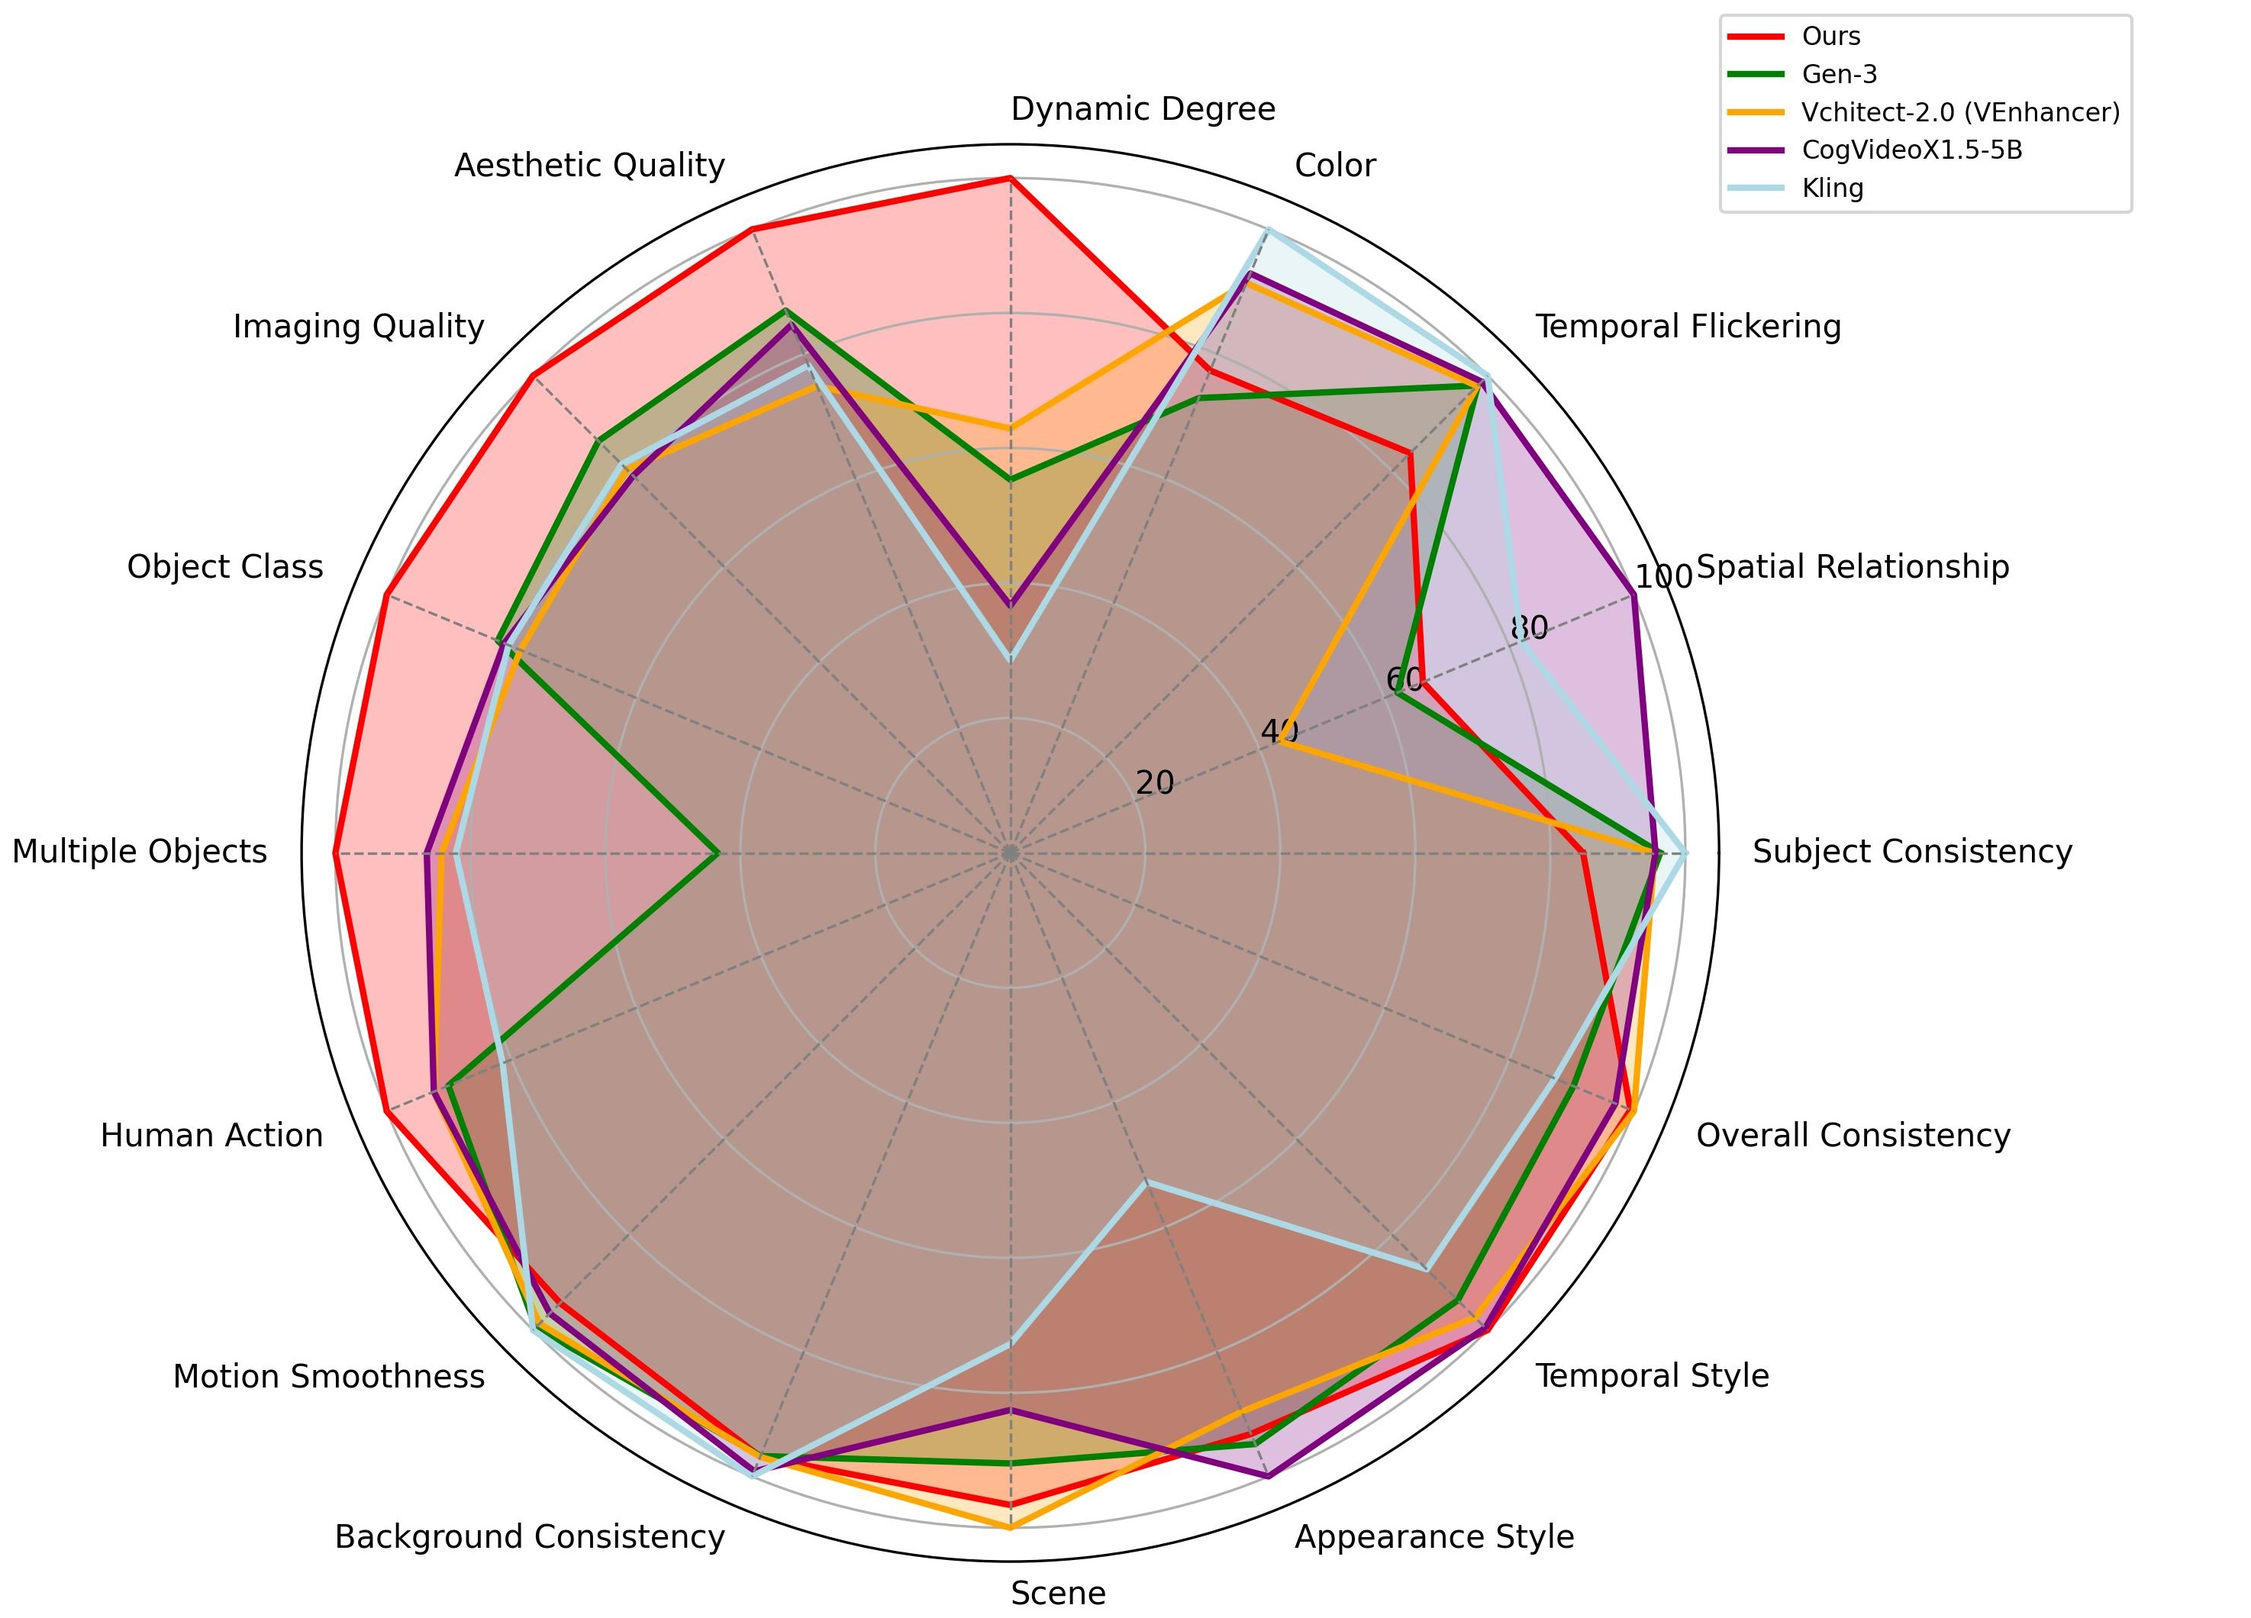
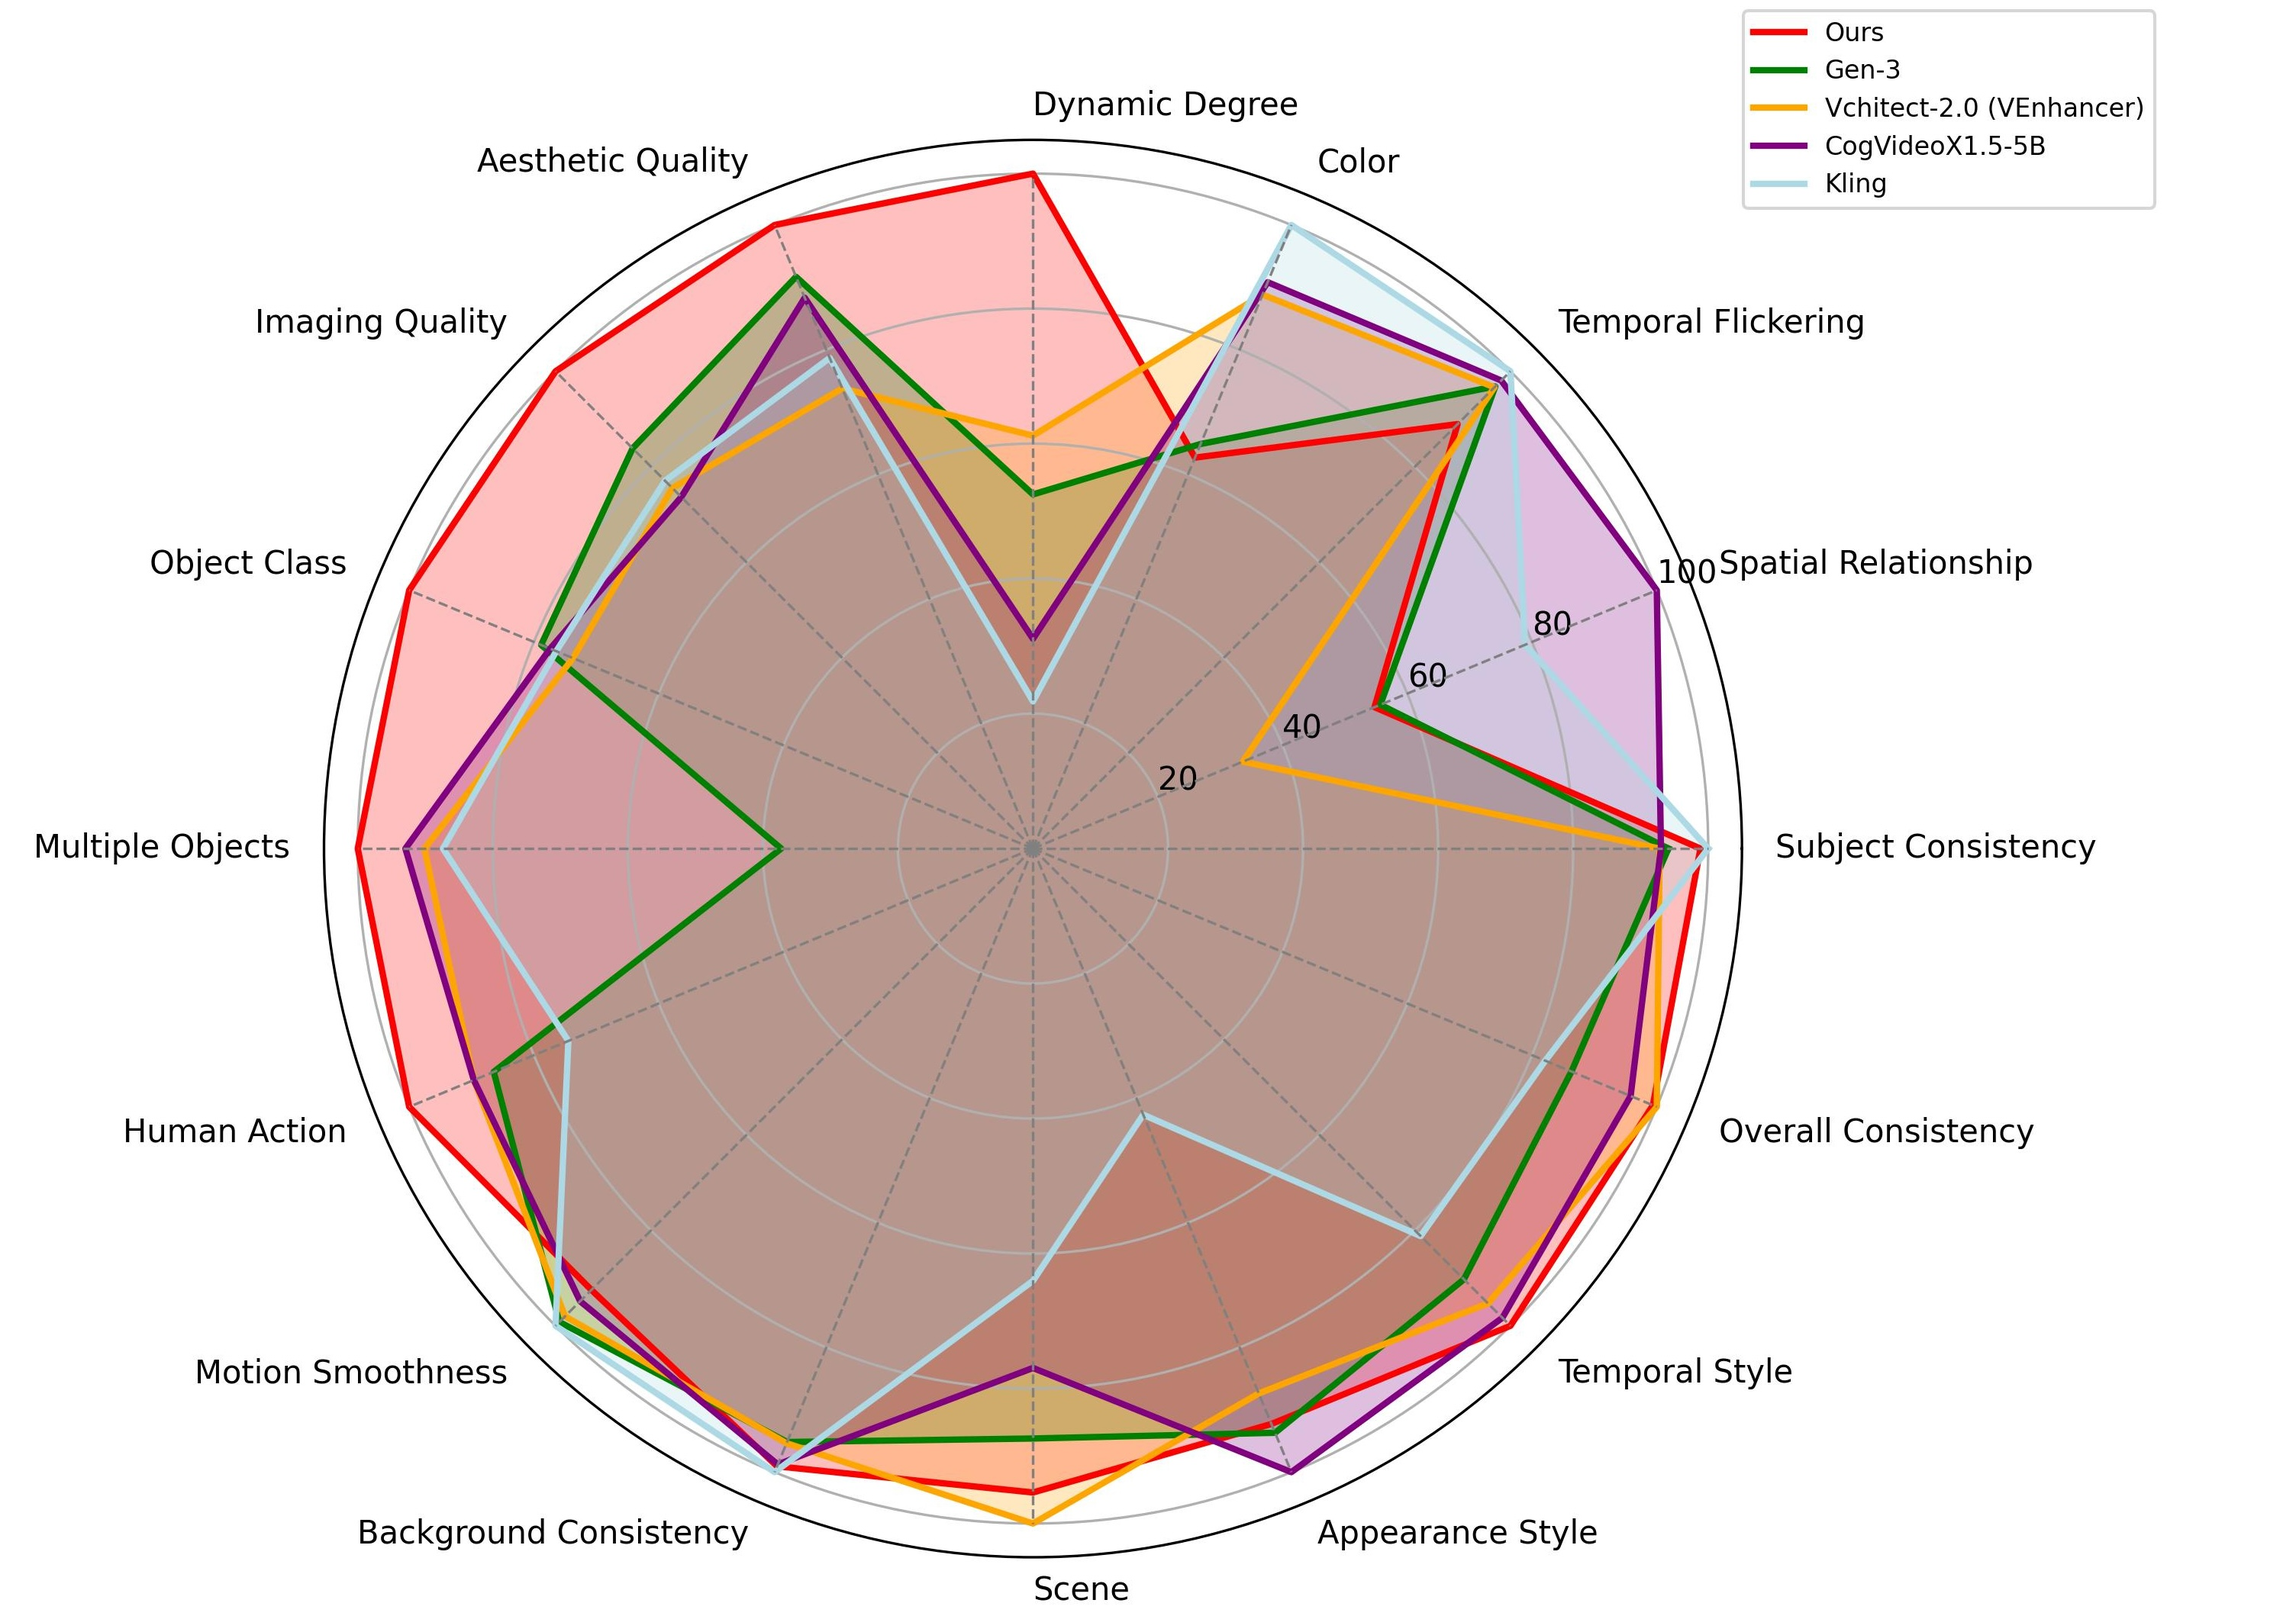
update vbench results

diff --git a/index.html b/index.html
@@ -218,8 +218,10 @@
         </h2>
         <div class="content has-text-justified" style="font-size: 1.5rem; line-height: 1.8;">
           <p>
-            Our model achieves a total score of 82.85 on VBench-Long, outperforming all published approaches and
-            uniquely enabling fast streaming inference on a single GPU at 9.4 FPS.
+            Our model achieves a total score of 83.88 on VBench (see 
+            <a href="https://huggingface.co/spaces/Vchitect/VBench_Leaderboard">VBench Leaderboard</a>) 
+            ranking the first place among all verified submissions and
+            uniquely enabling fast streaming inference on a single GPU at 9.4 FPS. 
             The radar plot visualizes our method's comprehensive performance advantages across several key metrics,
             including dynamic degree, aesthetic quality, imaging quality, object class, multiple objects, and human
             action.
